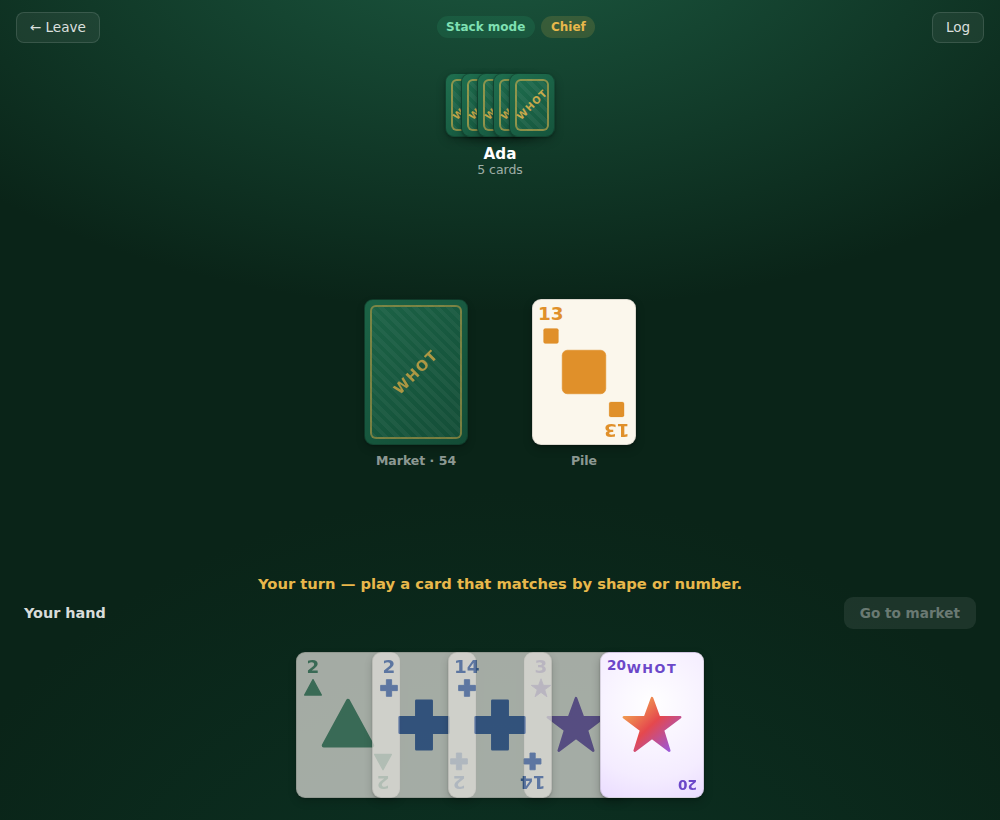
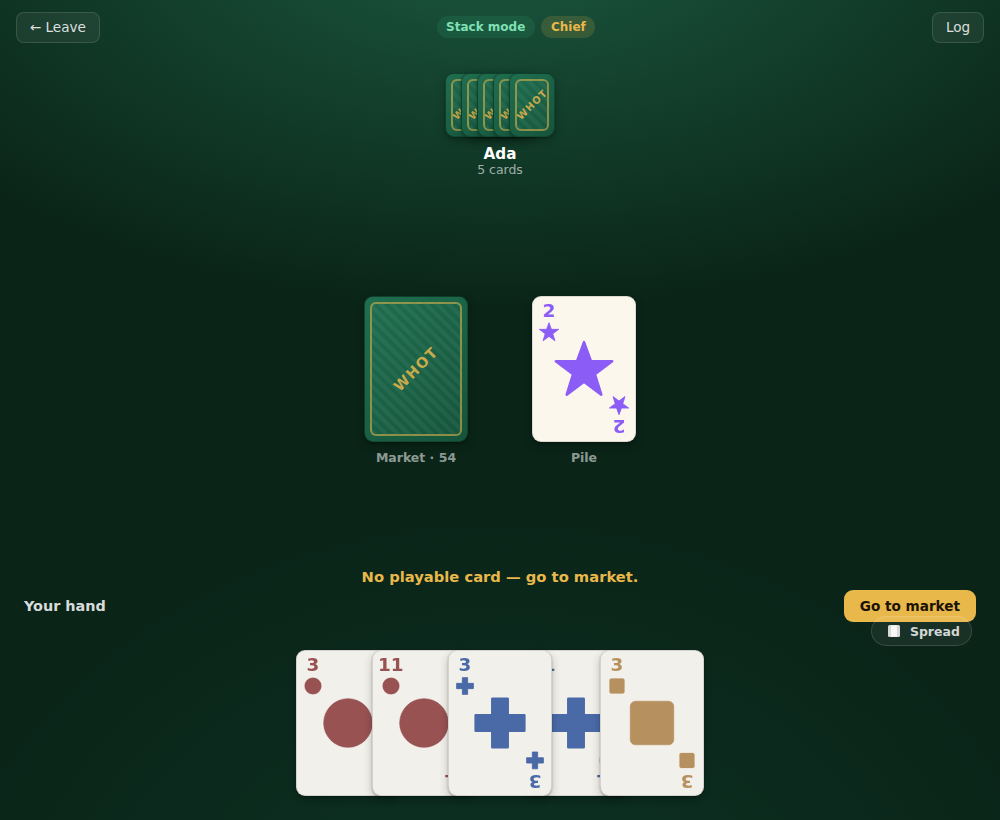
polish(ui): unify hover easing on a shared spring; refresh screenshots
- Add shared --spring / --ease-out motion tokens and move the remaining
  transform-based lifts (stock pile, market, Deal me in, result buttons, shape
  picker) onto the spring, so every card/button pops with one consistent,
  non-linear character instead of the browser default ease.
- Add a global prefers-reduced-motion guard that neutralizes transitions,
  animations and smooth scrolling.
- Regenerate the docs screenshots against the current UI (now-legible hand) and
  add hand-held / hand-spread showing the new layout toggle.

Claude-Session: https://claude.ai/code/session_01NVVMWCFRYSmJoP6r5AuZL5

diff --git a/app/src/routes/app.css b/app/src/routes/app.css
@@ -1,6 +1,9 @@
 :root {
 	--gold: #e8b84b;
 	--card-face: #fbf7ec;
+	/* Shared motion curves so every lift/pop shares the same character. */
+	--spring: cubic-bezier(0.34, 1.5, 0.5, 1);
+	--ease-out: cubic-bezier(0.22, 1, 0.36, 1);
 	color-scheme: dark;
 }
 
@@ -39,4 +42,15 @@ button {
 :focus-visible {
 	outline: 2px solid var(--gold);
 	outline-offset: 2px;
+}
+
+@media (prefers-reduced-motion: reduce) {
+	*,
+	*::before,
+	*::after {
+		animation-duration: 0.01ms !important;
+		animation-iteration-count: 1 !important;
+		transition-duration: 0.01ms !important;
+		scroll-behavior: auto !important;
+	}
 }

diff --git a/app/src/lib/ui/Board.svelte b/app/src/lib/ui/Board.svelte
@@ -213,7 +213,7 @@
 		padding: 0;
 		border-radius: 9px;
 		cursor: pointer;
-		transition: transform 0.14s;
+		transition: transform 0.28s var(--spring);
 	}
 	.stock-btn:not(:disabled):hover {
 		transform: translateY(-6px);
@@ -280,8 +280,8 @@
 		cursor: pointer;
 		font-size: 0.85rem;
 		transition:
-			transform 0.1s,
-			filter 0.15s;
+			transform 0.24s var(--spring),
+			filter 0.15s ease;
 	}
 	.market-btn:not(:disabled):hover {
 		filter: brightness(1.08);

diff --git a/app/src/lib/ui/ShapePicker.svelte b/app/src/lib/ui/ShapePicker.svelte
@@ -75,9 +75,9 @@
 		font-size: 0.85rem;
 		cursor: pointer;
 		transition:
-			border-color 0.15s,
-			background 0.15s,
-			transform 0.1s;
+			border-color 0.15s ease,
+			background 0.15s ease,
+			transform 0.24s var(--spring);
 	}
 	.opt:hover {
 		border-color: var(--c);

diff --git a/app/src/lib/ui/Result.svelte b/app/src/lib/ui/Result.svelte
@@ -146,8 +146,8 @@
 		font-size: 1rem;
 		cursor: pointer;
 		transition:
-			transform 0.1s,
-			filter 0.15s;
+			transform 0.24s var(--spring),
+			filter 0.15s ease;
 	}
 	button:hover {
 		transform: translateY(-2px);

diff --git a/app/src/lib/ui/Menu.svelte b/app/src/lib/ui/Menu.svelte
@@ -226,8 +226,8 @@
 		font-weight: 800;
 		cursor: pointer;
 		transition:
-			transform 0.1s,
-			filter 0.15s;
+			transform 0.24s var(--spring),
+			filter 0.15s ease;
 	}
 	.play:hover {
 		filter: brightness(1.06);

diff --git a/docs/screenshots/README.md b/docs/screenshots/README.md
@@ -5,6 +5,15 @@ Captured from the SvelteKit app (`app/`) playing a full single-player game.
 | Screen | Preview |
 | --- | --- |
 | Main menu — mode, opponents, difficulty ladder | ![Menu](menu.png) |
-| Your turn — playable cards highlighted, rest dimmed | ![Gameplay](gameplay.png) |
-| Opponent's turn — "thinking" indicator, hand locked | ![Opponent turn](opponent-turn.png) |
+| Your turn — playable cards highlighted, rest kept legible | ![Gameplay](gameplay.png) |
+| Opponent's turn — "thinking" indicator, hand stays readable | ![Opponent turn](opponent-turn.png) |
 | Game over — result overlay | ![Result](result.png) |
+
+## Hand layout toggle
+
+The player's hand can switch between a compact overlapping fan and a fully
+spread-out row (which scrolls to pan when it's wider than the screen).
+
+| Held | Spread |
+| --- | --- |
+| ![Held](hand-held.png) | ![Spread](hand-spread.png) |
